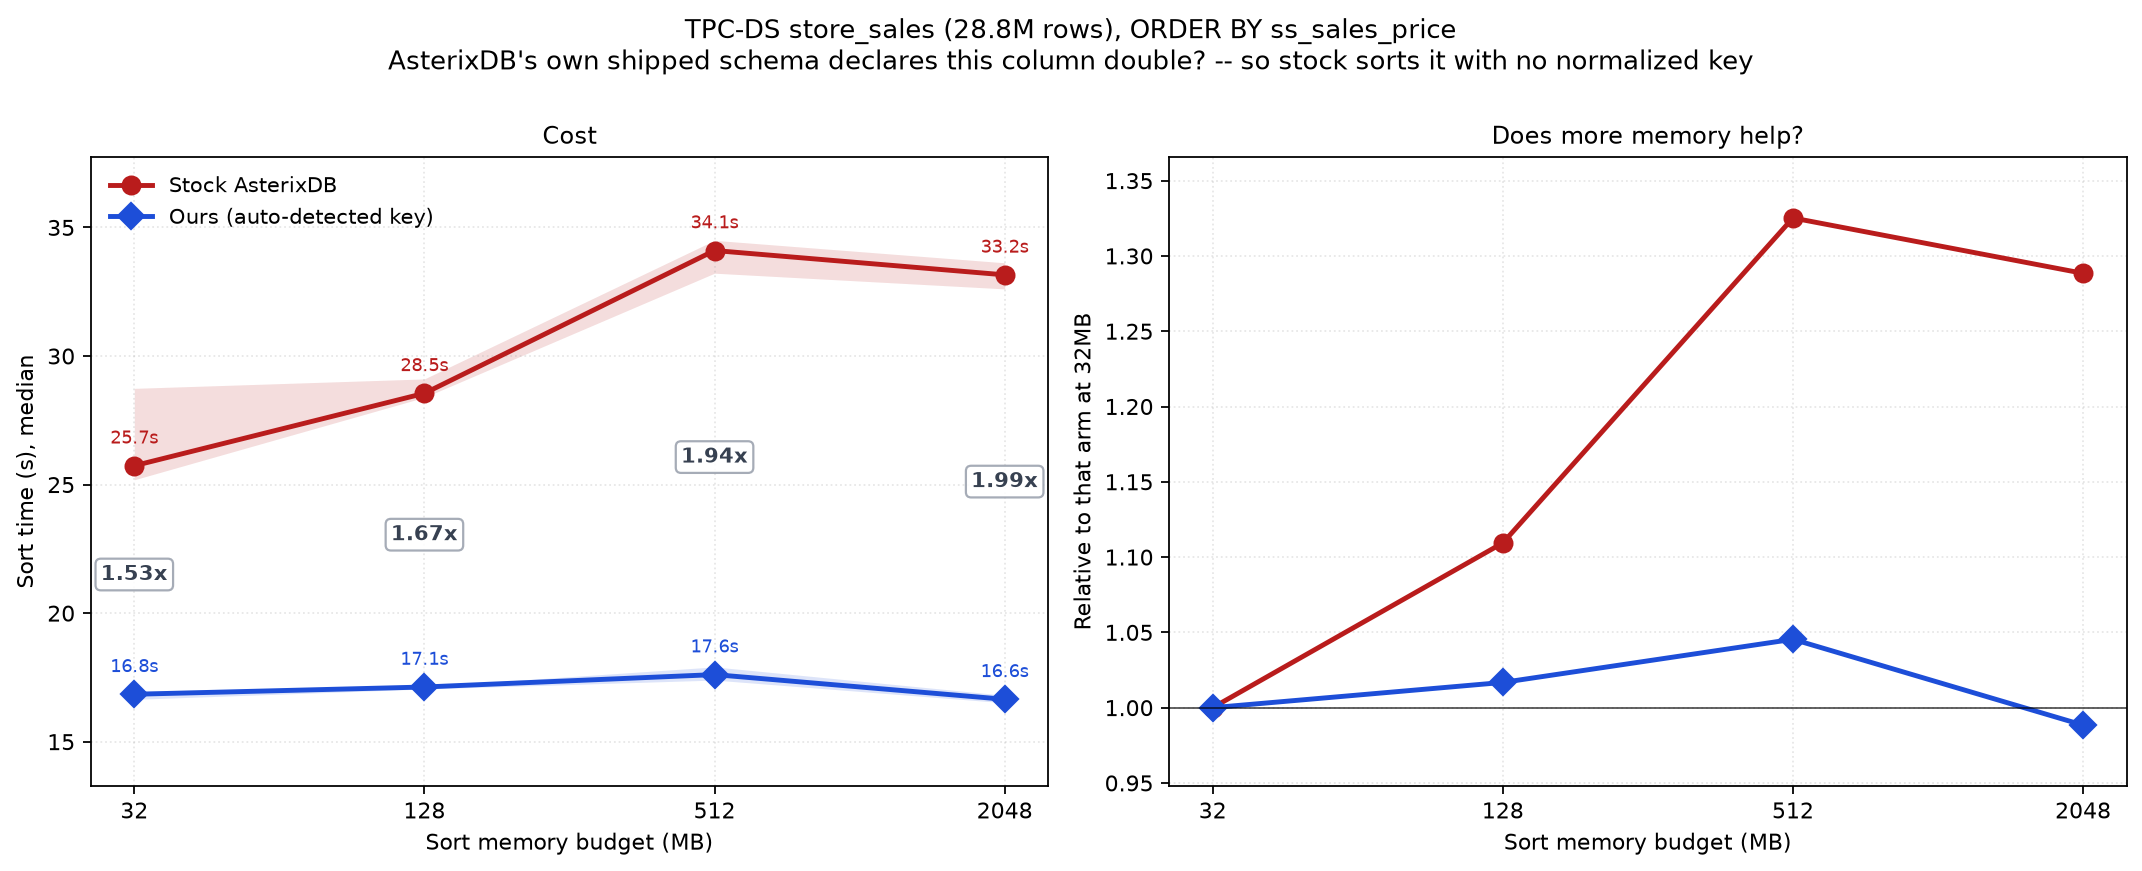
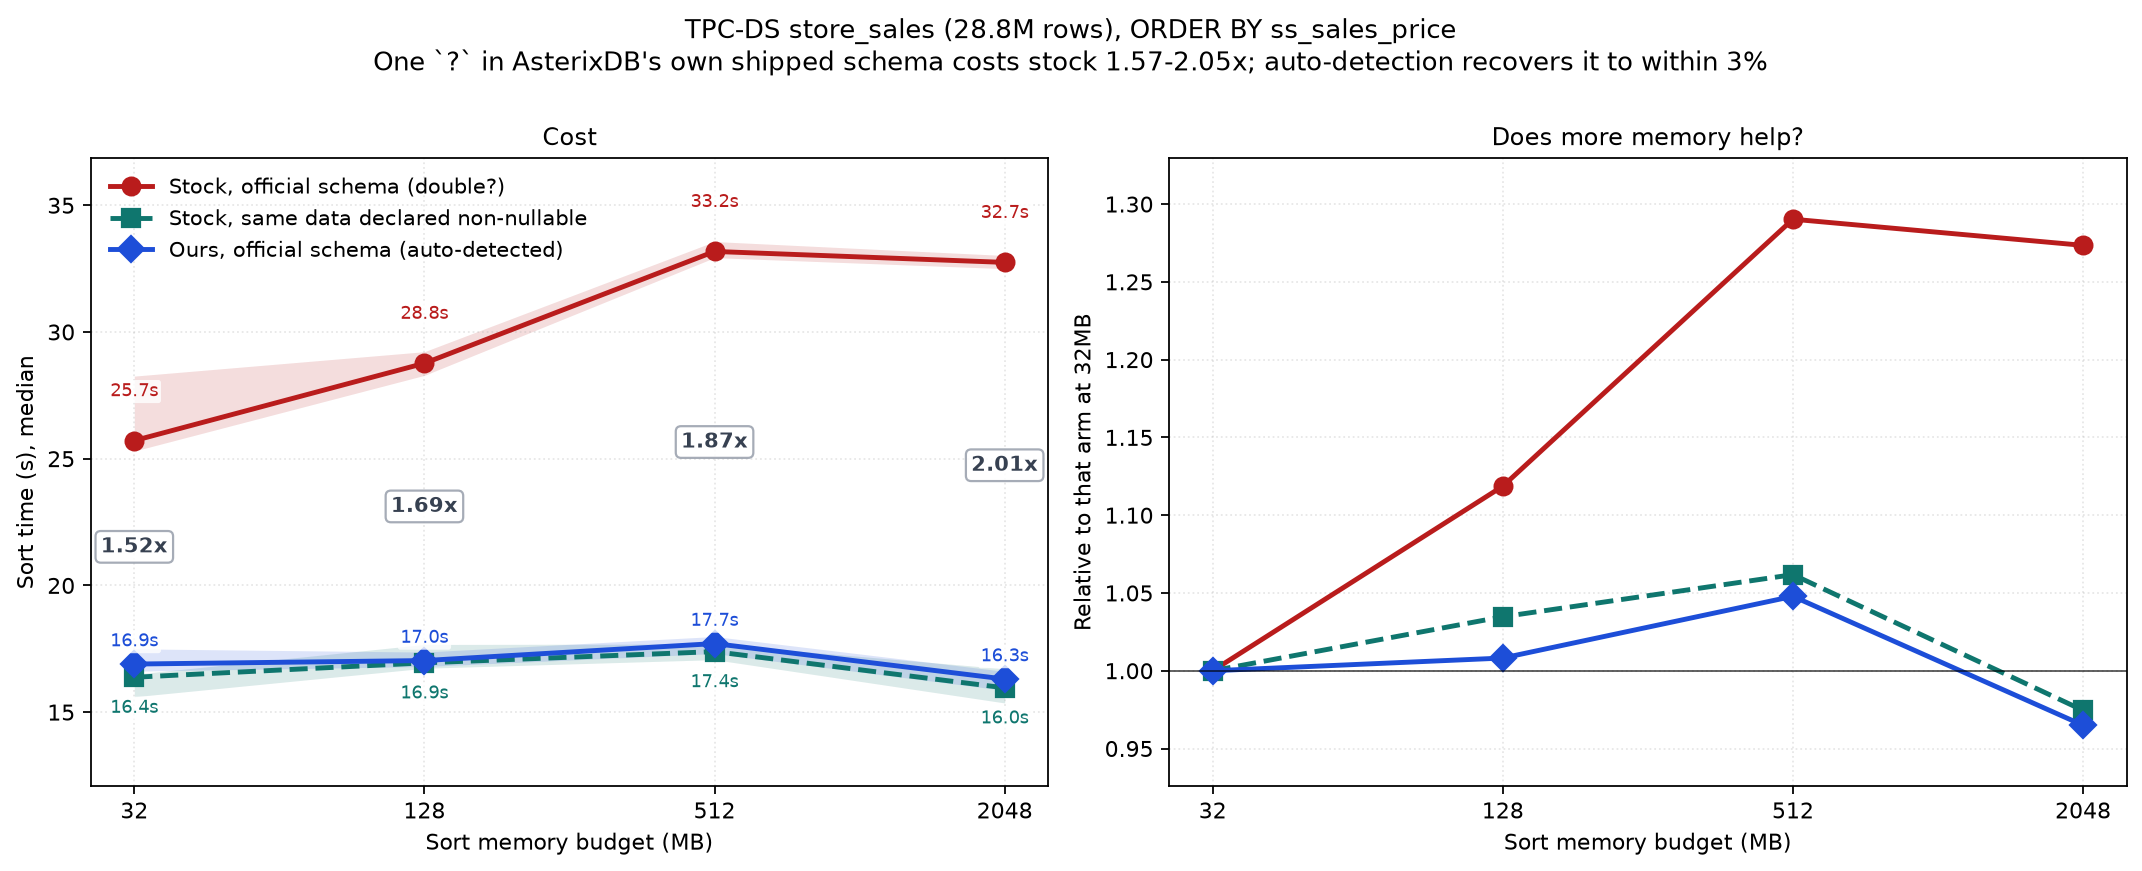
corrected tpcds control and figure

diff --git a/experiments/analysis/scripts/make_tpcds_figure.py b/experiments/analysis/scripts/make_tpcds_figure.py
@@ -25,8 +25,11 @@ M = ["32MB", "128MB", "512MB", "2048MB"]
 def mb(m): return int(m.replace("MB", ""))
 xs = [mb(m) for m in M]
 
-SERIES = [("stock-nullable", "Stock AsterixDB", "#b91c1c", "o", "-"),
-          ("ours-nullable",  "Ours (auto-detected key)", "#1d4ed8", "D", "-")]
+# The control matters: it shows the gap is caused by the DECLARATION, not by anything else about
+# the data. Same 23 columns, same 28,800,991 rows, only `?` removed and nulls coalesced.
+SERIES = [("stock-nullable", "Stock, official schema (double?)", "#b91c1c", "o", "-"),
+          ("stock-nonnull",  "Stock, same data declared non-nullable", "#0f766e", "s", "--"),
+          ("ours-nullable",  "Ours, official schema (auto-detected)", "#1d4ed8", "D", "-")]
 
 fig, (ax1, ax2) = plt.subplots(1, 2, figsize=(13.5, 5.4))
 meds = {}
@@ -41,12 +44,21 @@ for arm, label, color, marker, ls in SERIES:
     ax1.plot(xs, med, color=color, marker=marker, ls=ls, lw=2.2, ms=8, label=label)
     ax1.fill_between(xs, lo, hi, color=color, alpha=0.15, lw=0)
     ax2.plot(xs, [v/med[0] for v in med], color=color, marker=marker, ls=ls, lw=2.2, ms=8, label=label)
-    for x, v in zip(xs, med):
-        ax1.annotate(f"{v:.1f}s", (x, v), textcoords="offset points", xytext=(0, 10 if arm.startswith("ours") else 10),
-                     ha="center", fontsize=8, color=color)
+
+
+# Value labels, stacked per budget in ascending order: the control and our line sit within ~0.5s of
+# each other, so a fixed offset prints them on top of one another.
+COLORS = {a: c for a, _, c, _, _ in SERIES}
+for xi, m in enumerate(M):
+    col = sorted(((meds[a][xi], COLORS[a]) for a in meds), key=lambda t: t[0])
+    for rank, (val, color) in enumerate(col):
+        dy = -16 if rank == 0 else 8 + 12 * (rank - 1)
+        ax1.annotate(f"{val:.1f}s", (xs[xi], val), textcoords="offset points", xytext=(0, dy),
+                     ha="center", fontsize=8, color=color,
+                     bbox=dict(boxstyle="round,pad=0.15", fc="white", ec="none", alpha=0.8))
 
 # speedup annotations between the two curves
-if len(meds) == 2:
+if "stock-nullable" in meds and "ours-nullable" in meds:
     for x, a, b in zip(xs, meds["stock-nullable"], meds["ours-nullable"]):
         ax1.annotate(f"{a/b:.2f}x", (x, (a+b)/2), ha="center", fontsize=9.5,
                      color="#374151", fontweight="bold",
@@ -63,7 +75,7 @@ for ax in (ax1, ax2):
 ax1.legend(frameon=False, fontsize=9.5)
 ax1.margins(y=0.18); ax2.margins(y=0.12)
 fig.suptitle("TPC-DS store_sales (28.8M rows), ORDER BY ss_sales_price\n"
-             "AsterixDB's own shipped schema declares this column double? -- so stock sorts it with no normalized key",
+             "One `?` in AsterixDB's own shipped schema costs stock 1.57-2.05x; auto-detection recovers it to within 3%",
              fontsize=11.5, y=1.0)
 fig.tight_layout()
 fig.savefig(DST, dpi=160, bbox_inches="tight")
